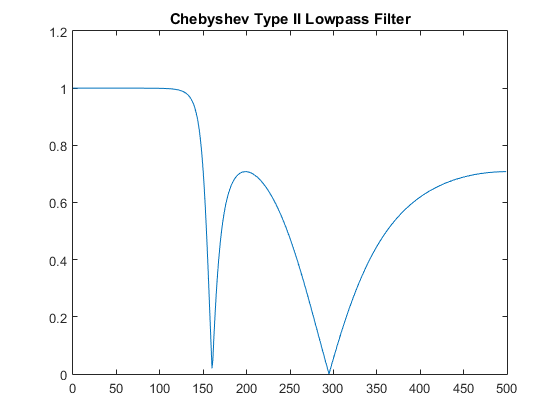
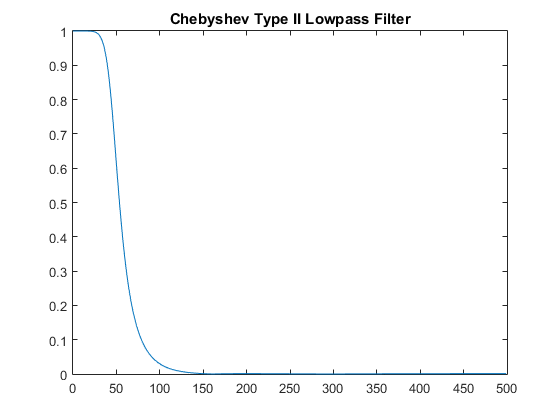
Lib Update
~KTB

diff --git a/html/IIR.html b/html/IIR.html
@@ -66,7 +66,7 @@ table td { padding:7px 5px; text-align:left; vertical-align:top; border:1px soli
 
 
 
-  </style></head><body><div class="content"><h1>Infinite Impulse Response Filter Design</h1><!--introduction--><p>This code will prove to be classic example for proper use of the given functions for Butterworth filter, Chebyshev Type 1 filter and Chebyshev Type 2 Filter Design</p><!--/introduction--><h2>Contents</h2><div><ul><li><a href="#1">Inputs Provided</a></li><li><a href="#9">Derivation of order by butterord</a></li><li><a href="#10">Formula for Order n of Butterworth filter</a></li><li><a href="#14">Applying the Butterworth filter function</a></li><li><a href="#15">Converting to frequency domain.</a></li><li><a href="#18">The PLOT for Butterworth Filter</a></li><li><a href="#19">Butterworth Filter Characteristics</a></li><li><a href="#21">Derivation of order</a></li><li><a href="#22">Applying the Chebyshev Type I filter function</a></li><li><a href="#23">Converting to frequency domain.</a></li><li><a href="#26">The PLOT for Chebyshev Type I Filter</a></li><li><a href="#27">Derivation of order</a></li><li><a href="#28">Applying the Chebyshev Type II filter function</a></li><li><a href="#29">Converting to frequency domain.</a></li><li><a href="#32">The PLOT for Chebyshev Type II Filter</a></li><li><a href="#33">Author: Kaustubh Shivdikar</a></li></ul></div><h2>Inputs Provided<a name="1"></a></h2><p>Passband Attenuation</p><pre class="codeinput">Ap = 3;
+  </style></head><body><div class="content"><h1>Infinite Impulse Response Filter Design</h1><!--introduction--><p>This code will prove to be classic example for proper use of the given functions for Butterworth filter, Chebyshev Type 1 filter and Chebyshev Type 2 Filter Design</p><!--/introduction--><h2>Contents</h2><div><ul><li><a href="#1">Inputs Provided</a></li><li><a href="#9">Derivation of order by butterord</a></li><li><a href="#10">Formula for Order n of Butterworth filter</a></li><li><a href="#14">Applying the Butterworth filter function</a></li><li><a href="#15">Converting to frequency domain.</a></li><li><a href="#18">The PLOT for Butterworth Filter</a></li><li><a href="#19">Butterworth Filter Characteristics</a></li><li><a href="#21">Butterworth Filter Characteristics</a></li><li><a href="#23">Derivation of order</a></li><li><a href="#24">Applying the Chebyshev Type I filter function</a></li><li><a href="#25">Converting to frequency domain.</a></li><li><a href="#28">The PLOT for Chebyshev Type I Filter</a></li><li><a href="#29">Derivation of order</a></li><li><a href="#30">Applying the Chebyshev Type II filter function</a></li><li><a href="#31">Converting to frequency domain.</a></li><li><a href="#34">The PLOT for Chebyshev Type II Filter</a></li><li><a href="#35">Author: Kaustubh Shivdikar</a></li></ul></div><h2>Inputs Provided<a name="1"></a></h2><p>Passband Attenuation</p><pre class="codeinput">Ap = 3;
 </pre><p>Sampling Frequency</p><pre class="codeinput">Fs = 500;
 </pre><p>Stopband Attenuation</p><pre class="codeinput">As = 60;
 </pre><p>Passband Frequency</p><pre class="codeinput">Wp = 40;
@@ -81,23 +81,23 @@ table td { padding:7px 5px; text-align:left; vertical-align:top; border:1px soli
 </pre><h2>The PLOT for Butterworth Filter<a name="18"></a></h2><pre class="codeinput">figure();
 plot(W,h);
 title(<span class="string">'Butterworth Filter'</span>)
-</pre><img vspace="5" hspace="5" src="IIR_01.png" alt=""> <h2>Butterworth Filter Characteristics<a name="19"></a></h2><p><img vspace="5" hspace="5" src="D:\Github Live\Infinite-Impulse-Response-Filters\Source\graph1.gif" alt=""> </p><h2>Derivation of order<a name="21"></a></h2><pre class="codeinput">[n,Wp] = cheb1ord(Wp,Ws,Ap,As);
-</pre><h2>Applying the Chebyshev Type I filter function<a name="22"></a></h2><pre class="codeinput">[b,a] = cheby1(n,Ap,Wp);
-</pre><h2>Converting to frequency domain.<a name="23"></a></h2><pre class="codeinput">[h,w] = freqz(b,a);
+</pre><img vspace="5" hspace="5" src="IIR_01.png" alt=""> <h2>Butterworth Filter Characteristics<a name="19"></a></h2><p><img vspace="5" hspace="5" src="D:\Github Live\Infinite-Impulse-Response-Filters\Source\graph1.gif" alt=""> </p><h2>Butterworth Filter Characteristics<a name="21"></a></h2><p><img vspace="5" hspace="5" src="D:\Github Live\Infinite-Impulse-Response-Filters\Source\graph1.gif" alt=""> </p><h2>Derivation of order<a name="23"></a></h2><pre class="codeinput">[n,Wp] = cheb1ord(Wp,Ws,Ap,As);
+</pre><h2>Applying the Chebyshev Type I filter function<a name="24"></a></h2><pre class="codeinput">[b,a] = cheby1(n,Ap,Wp);
+</pre><h2>Converting to frequency domain.<a name="25"></a></h2><pre class="codeinput">[h,w] = freqz(b,a);
 </pre><p>Again since the obtained input was in Normalized Form we get it back by multiplying with Sampling Frequency</p><pre class="codeinput">W = w*Fs/pi;
 </pre><p>Again to remove the negative values of h we take absolute</p><pre class="codeinput">h = abs(h);
-</pre><h2>The PLOT for Chebyshev Type I Filter<a name="26"></a></h2><pre class="codeinput">figure();
+</pre><h2>The PLOT for Chebyshev Type I Filter<a name="28"></a></h2><pre class="codeinput">figure();
 plot(W,h);
 title(<span class="string">'Chebyshev Type I Lowpass Filter'</span>)
-</pre><img vspace="5" hspace="5" src="IIR_02.png" alt=""> <h2>Derivation of order<a name="27"></a></h2><pre class="codeinput">[n,Wp] = cheb2ord(Wp,Ws,Ap,As);
-</pre><h2>Applying the Chebyshev Type II filter function<a name="28"></a></h2><pre class="codeinput">[b,a] = cheby2(n,Ap,Wp);
-</pre><h2>Converting to frequency domain.<a name="29"></a></h2><pre class="codeinput">[h,w] = freqz(b,a);
+</pre><img vspace="5" hspace="5" src="IIR_02.png" alt=""> <h2>Derivation of order<a name="29"></a></h2><pre class="codeinput">[n,Wp] = cheb2ord(Wp,Ws,Ap,As);
+</pre><h2>Applying the Chebyshev Type II filter function<a name="30"></a></h2><pre class="codeinput">[b,a] = cheby2(n,As,Wp);
+</pre><h2>Converting to frequency domain.<a name="31"></a></h2><pre class="codeinput">[h,w] = freqz(b,a);
 </pre><p>Again since the obtained input was in Normalized Form we get it back by multiplying with Sampling Frequency</p><pre class="codeinput">W = w*Fs/pi;
 </pre><p>Again to remove the negative values of h we take absolute</p><pre class="codeinput">h = abs(h);
-</pre><h2>The PLOT for Chebyshev Type II Filter<a name="32"></a></h2><pre class="codeinput">figure();
+</pre><h2>The PLOT for Chebyshev Type II Filter<a name="34"></a></h2><pre class="codeinput">figure();
 plot(W,h);
 title(<span class="string">'Chebyshev Type II Lowpass Filter'</span>)
-</pre><img vspace="5" hspace="5" src="IIR_03.png" alt=""> <h2>Author: Kaustubh Shivdikar<a name="33"></a></h2><p>MATLAB Lab experiment of Linear to circular convolution.</p><p><img vspace="5" hspace="5" src="D:\Github Live\Infinite-Impulse-Response-Filters\Source\matlablogo.png" alt=""> </p><p class="footer"><br><a href="http://www.mathworks.com/products/matlab/">Published with MATLAB&reg; R2015a</a><br></p></div><!--
+</pre><img vspace="5" hspace="5" src="IIR_03.png" alt=""> <h2>Author: Kaustubh Shivdikar<a name="35"></a></h2><p>MATLAB Lab experiment of Linear to circular convolution.</p><p><img vspace="5" hspace="5" src="D:\Github Live\Infinite-Impulse-Response-Filters\Source\matlablogo.png" alt=""> </p><p class="footer"><br><a href="http://www.mathworks.com/products/matlab/">Published with MATLAB&reg; R2015a</a><br></p></div><!--
 ##### SOURCE BEGIN #####
 %% Infinite Impulse Response Filter Design
 % This code will prove to be classic example for proper use of the given
@@ -192,6 +192,12 @@ title('Butterworth Filter')
 %%
 % <<D:\Github Live\Infinite-Impulse-Response-Filters\Source\graph1.gif>>
 % 
+%% Butterworth Filter Characteristics
+
+%%
+% <<D:\Github Live\Infinite-Impulse-Response-Filters\Source\graph1.gif>>
+% 
+
 
 
 %% Derivation of order
@@ -227,7 +233,7 @@ title('Chebyshev Type I Lowpass Filter')
 
 %% Applying the Chebyshev Type II filter function
 
-[b,a] = cheby2(n,Ap,Wp);
+[b,a] = cheby2(n,As,Wp);
 
 %% Converting to frequency domain.
 [h,w] = freqz(b,a);

diff --git a/IIR.m b/IIR.m
@@ -91,6 +91,12 @@ title('Butterworth Filter')
 %%
 % <<D:\Github Live\Infinite-Impulse-Response-Filters\Source\graph1.gif>>
 % 
+%% Butterworth Filter Characteristics
+
+%%
+% <<D:\Github Live\Infinite-Impulse-Response-Filters\Source\graph1.gif>>
+% 
+
 
 
 %% Derivation of order
@@ -126,7 +132,7 @@ title('Chebyshev Type I Lowpass Filter')
 
 %% Applying the Chebyshev Type II filter function
 
-[b,a] = cheby2(n,Ap,Wp);
+[b,a] = cheby2(n,As,Wp);
 
 %% Converting to frequency domain.
 [h,w] = freqz(b,a);
